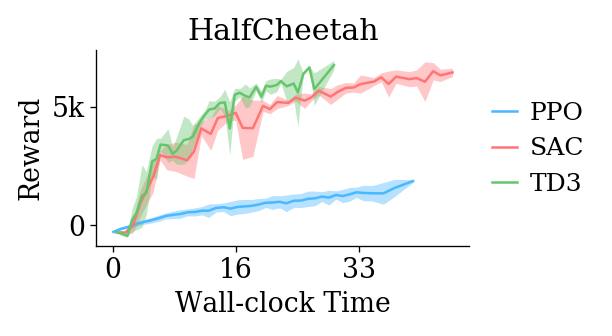
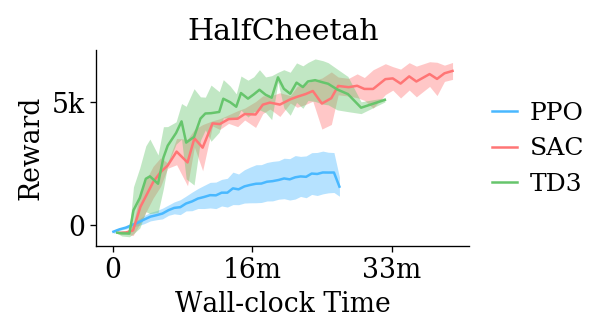
update notes

diff --git a/pg_analysis/cheetah_all.py b/pg_analysis/cheetah_all.py
@@ -2,8 +2,13 @@ from cmx import doc, CommonMark
 
 # doc = CommonMark(filename="README.md", overwrite=True)
 doc @ """
-# Result Summary
+# All baselines on Cheetah-v2
 
+As mentioned in the Spinup documentation, the PPO 
+implementation here is not on-par with SOTA. The SAC,
+DDPG and TD3 implementations however are. 
+
+The `mrl` library attains stronger performance.
 """
 prefix = None
 methods = ['ppo', 'sac', 'td3']

diff --git a/pg_analysis/cheetah_all.md b/pg_analysis/cheetah_all.md
@@ -1,0 +1,10 @@
+
+# All baselines on Cheetah-v2
+
+As mentioned in the Spinup documentation, the PPO 
+implementation here is not on-par with SOTA. The SAC,
+DDPG and TD3 implementations however are. 
+
+The `mrl` library attains stronger performance.
+
+<div style="flex-wrap:wrap; display:flex; flex-direction:row; item-align:center;"><img style="align-self:center; zoom:50%;" src="figures/HalfCheetah_steps.png" width="None" height="None"/><img style="align-self:center; zoom:50%;" src="figures/HalfCheetah_wall_clock.png" width="None" height="None"/></div>
